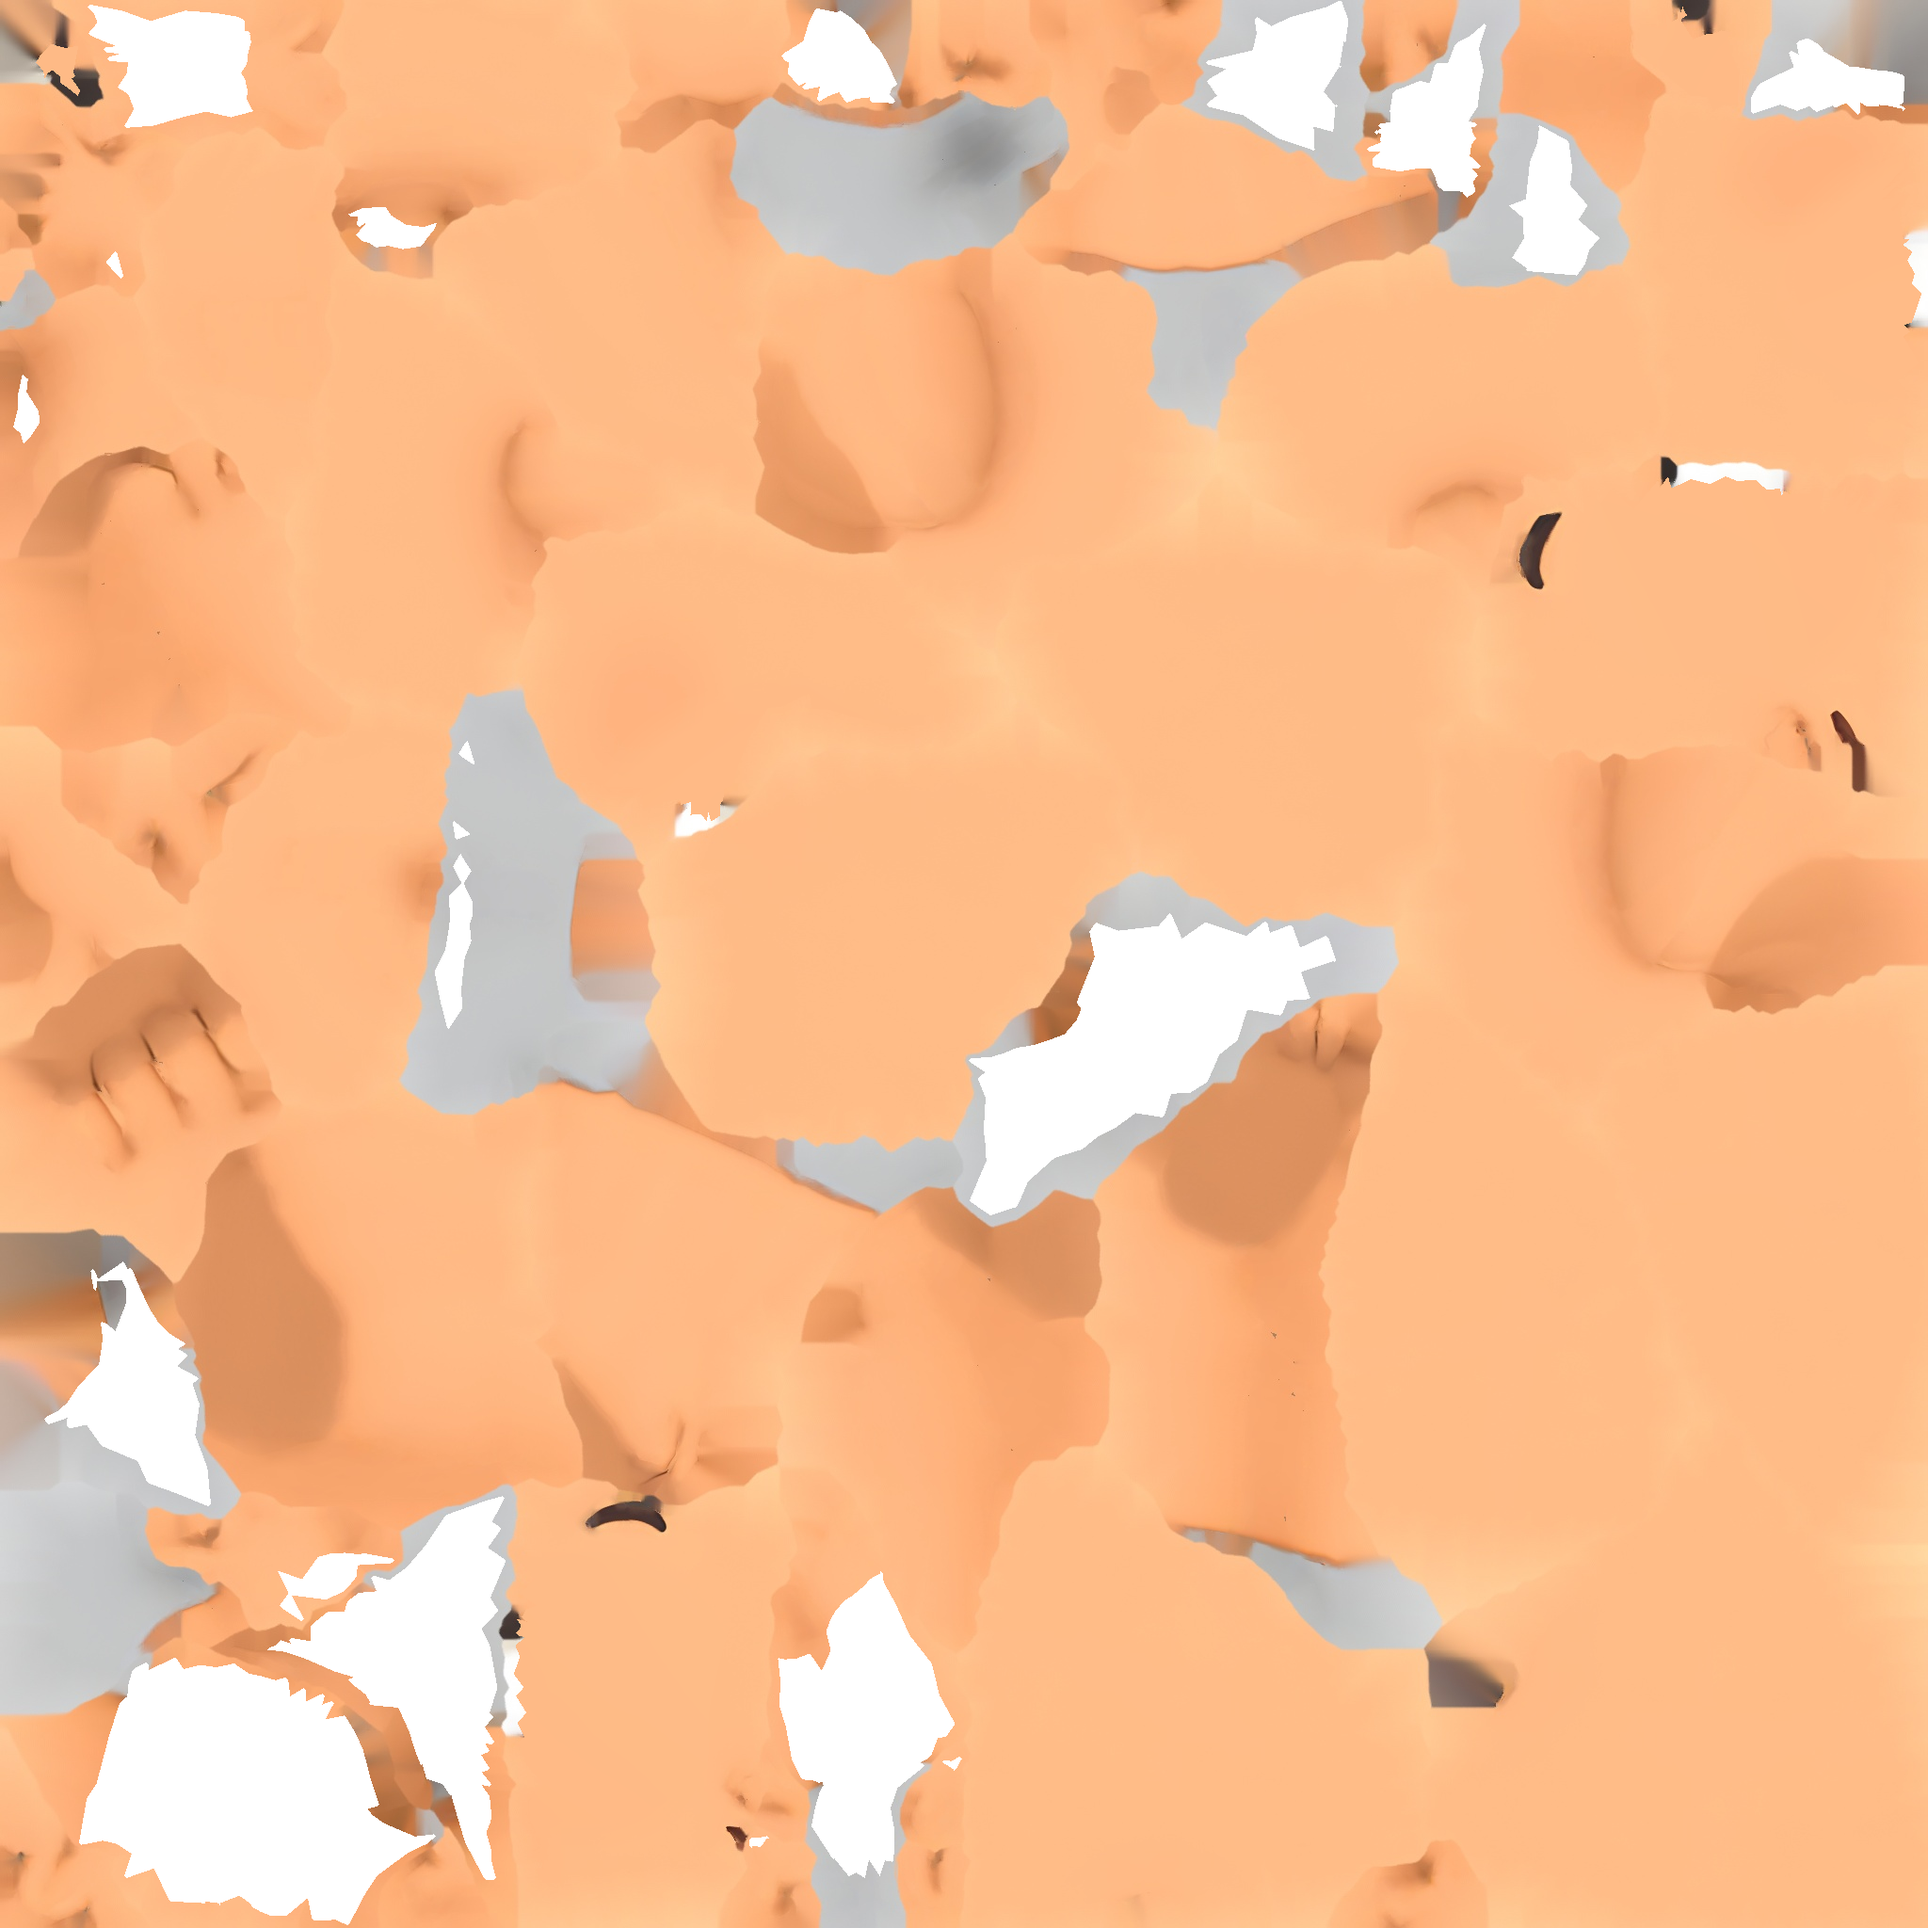
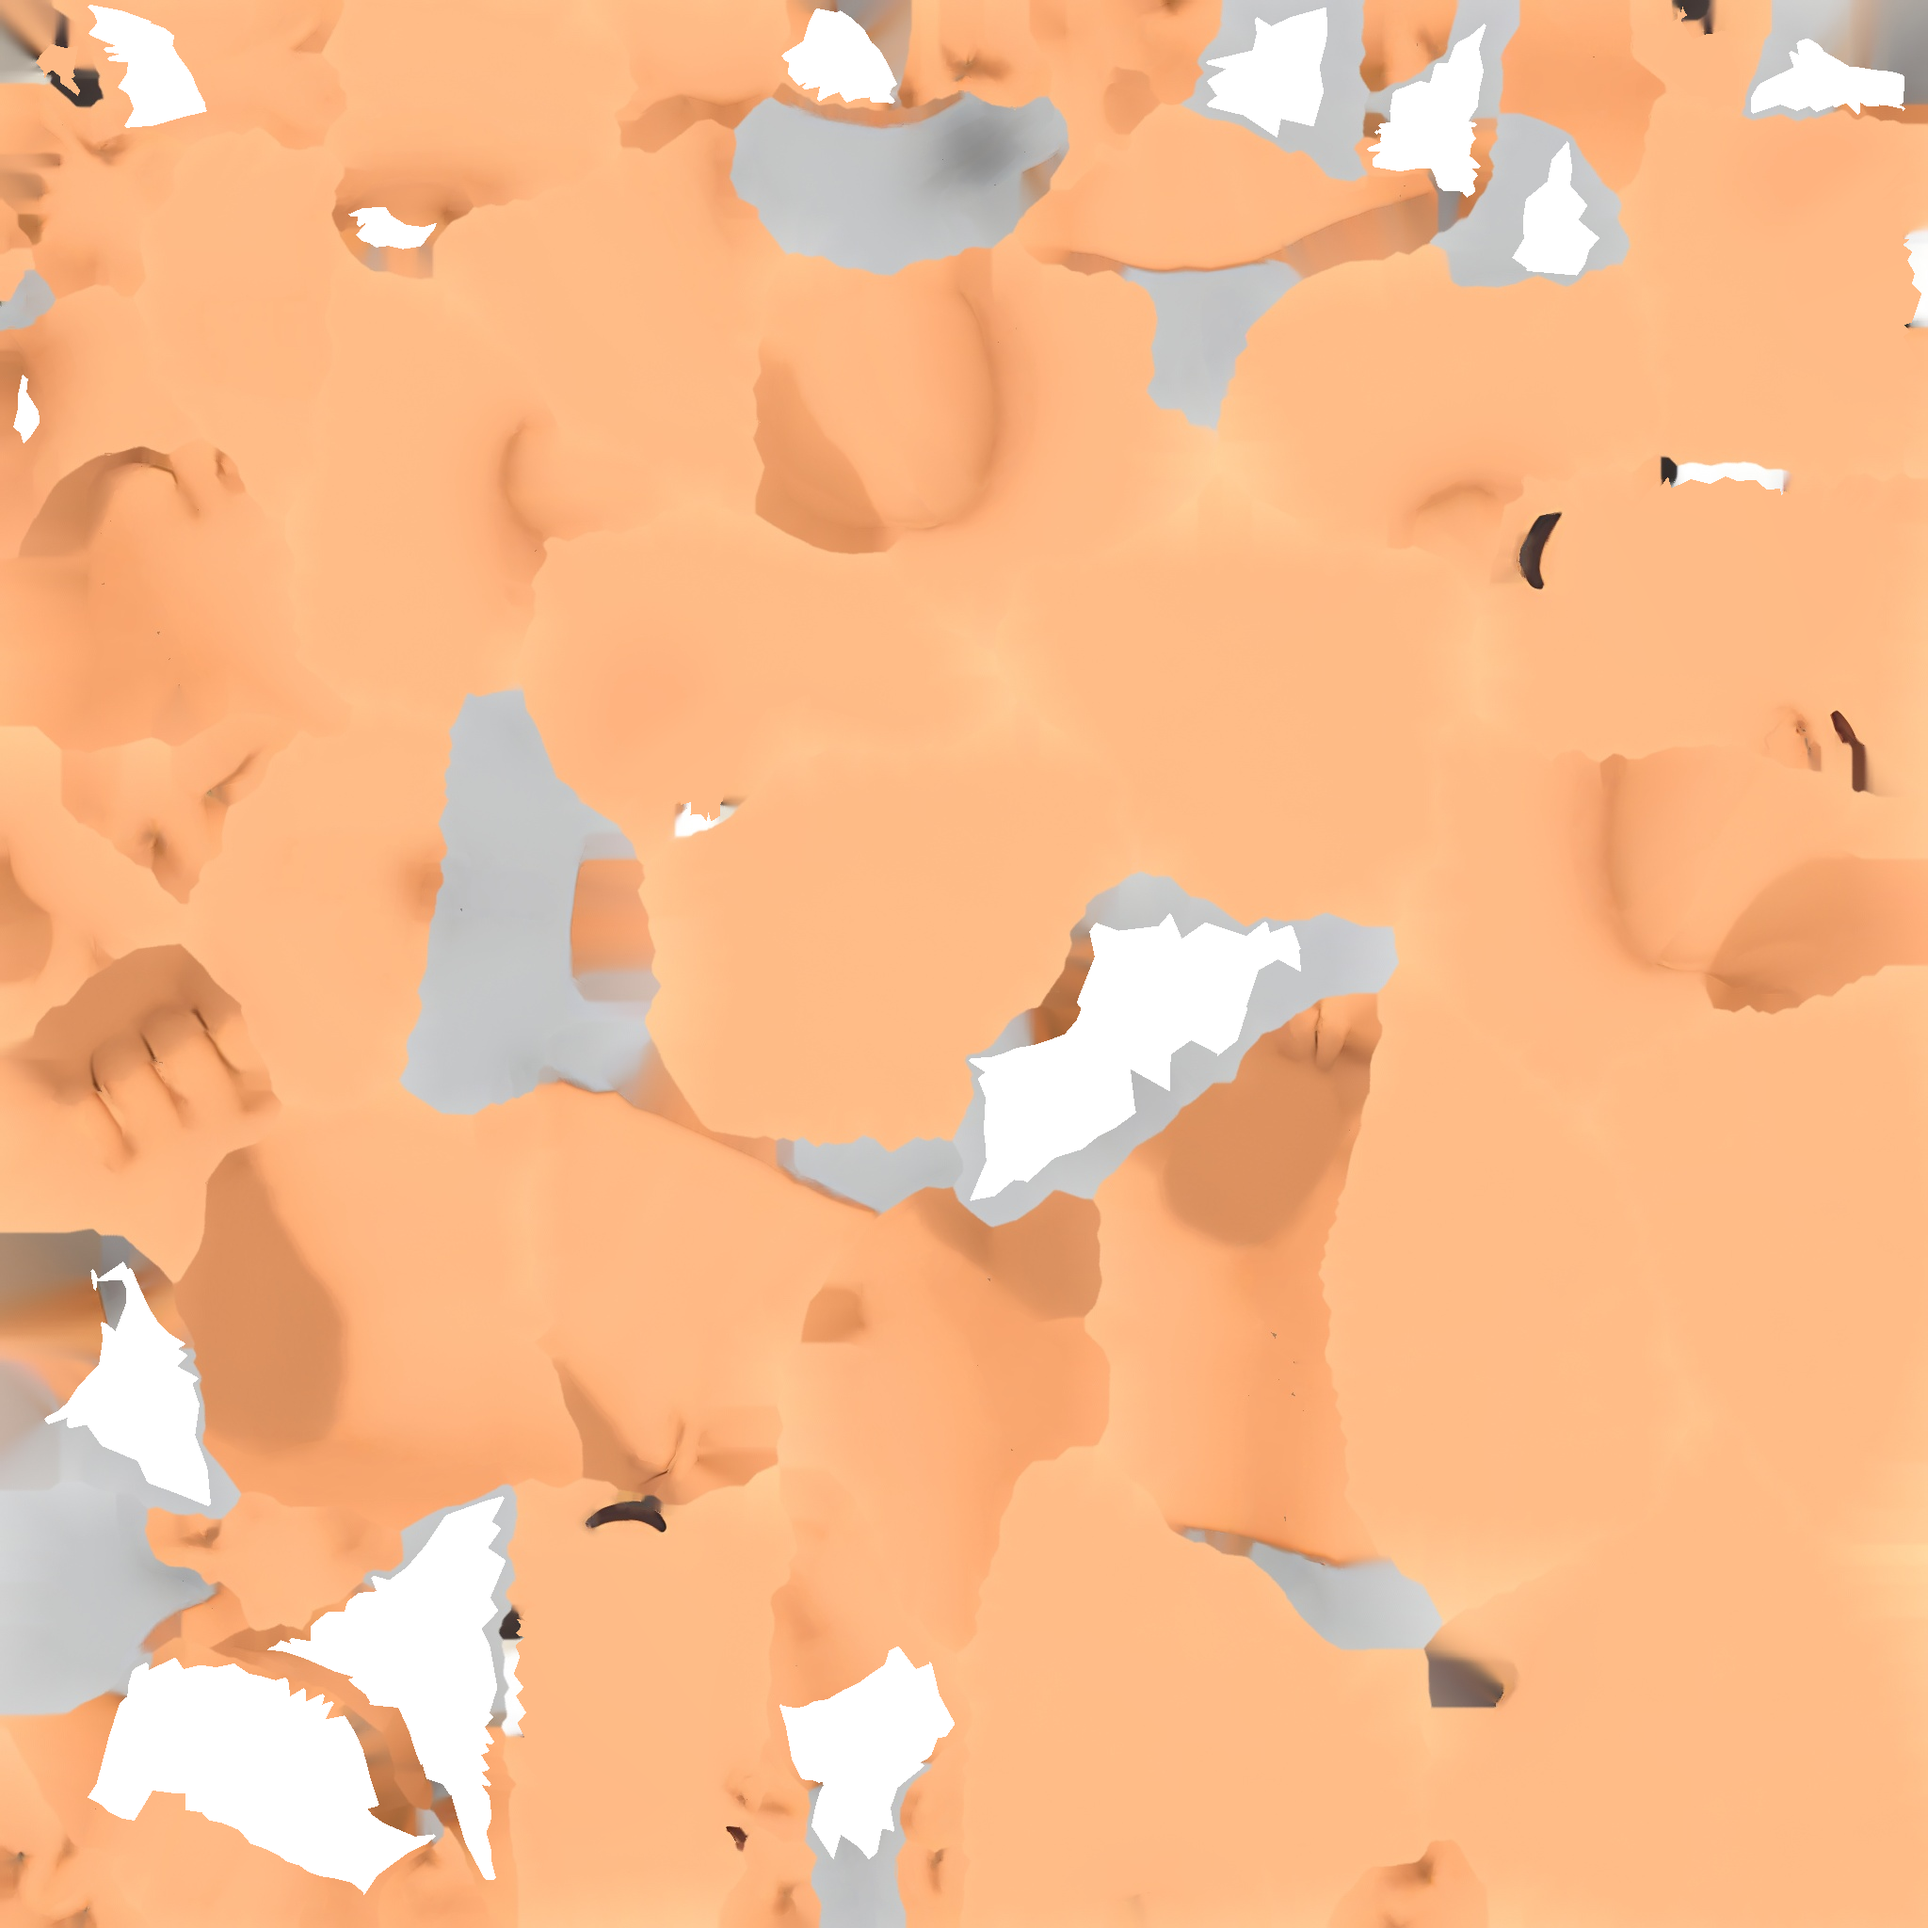
fix(frontend): 열린 소매의 손목 피부와 재킷 밑단 보존 [S15P31A305-217]

diff --git a/frontend/UnityClient/Assets/Tests/EditMode/Tripo/PasserbyOutfitTests.cs b/frontend/UnityClient/Assets/Tests/EditMode/Tripo/PasserbyOutfitTests.cs
@@ -100,6 +100,67 @@ namespace A305.Tripo.Tests
         }
 
         [Test]
+        public void CoveragePreservesSkinAtBothWristOpenings()
+        {
+            var instance = (GameObject)
+                PrefabUtility.InstantiatePrefab(
+                    AssetDatabase.LoadAssetAtPath<GameObject>(
+                        Folder + "LittleMung_Passerby_Male.prefab"
+                    )
+                );
+            var baked = new Mesh();
+            var texture = new Texture2D(2, 2);
+            try
+            {
+                var animator = instance.GetComponentInChildren<Animator>();
+                var body = instance
+                    .GetComponentsInChildren<SkinnedMeshRenderer>()
+                    .Single(s => s.sharedMesh.vertexCount == 8782);
+                body.BakeMesh(baked, true);
+                texture.LoadImage(
+                    System.IO.File.ReadAllBytes(
+                        AssetDatabase.GetAssetPath(body.sharedMaterial.GetTexture("_BaseMap"))
+                    )
+                );
+                var points = baked.vertices.Select(body.transform.TransformPoint).ToArray();
+                var uv = body.sharedMesh.uv;
+                foreach (var hand in new[] { HumanBodyBones.LeftHand, HumanBodyBones.RightHand })
+                {
+                    var wrist = animator.GetBoneTransform(hand).position;
+                    var indices = Enumerable
+                        .Range(0, points.Length)
+                        .Where(i => Vector3.Distance(points[i], wrist) < .065f)
+                        .ToArray();
+                    Assert.That(indices.Length, Is.GreaterThan(10), "Wrist sample is missing");
+                    foreach (int index in indices)
+                    {
+                        int x = Mathf.Clamp(
+                            (int)(uv[index].x * texture.width),
+                            0,
+                            texture.width - 1
+                        );
+                        int y = Mathf.Clamp(
+                            (int)(uv[index].y * texture.height),
+                            0,
+                            texture.height - 1
+                        );
+                        Assert.That(
+                            texture.GetPixel(x, y).a,
+                            Is.GreaterThan(.95f),
+                            hand + " skin is erased at the open cuff"
+                        );
+                    }
+                }
+            }
+            finally
+            {
+                Object.DestroyImmediate(texture);
+                Object.DestroyImmediate(baked);
+                Object.DestroyImmediate(instance);
+            }
+        }
+
+        [Test]
         public void PasserbyVariantRetainsBehaviorAndConnectsItsAnimator()
         {
             var prefab = AssetDatabase.LoadAssetAtPath<GameObject>(

diff --git a/frontend/UnityClient/Assets/Scripts/Editor/Characters/PasserbyOutfitBuilder.cs b/frontend/UnityClient/Assets/Scripts/Editor/Characters/PasserbyOutfitBuilder.cs
@@ -224,13 +224,25 @@ namespace A305.EditorTools.Characters
             var baked = new Mesh();
             body.BakeMesh(baked, true);
             var vertices = baked.vertices.Select(body.transform.TransformPoint).ToArray();
+            var animator = npc.GetComponentInChildren<Animator>();
+            var wrists = new[]
+            {
+                animator.GetBoneTransform(HumanBodyBones.LeftHand).position,
+                animator.GetBoneTransform(HumanBodyBones.RightHand).position,
+            };
+            // Keep skin visible inside open cuffs and below a moving jacket hem.
+            // Masking only by height used to erase the wrist along with the sleeve.
+            bool IsCovered(int index) =>
+                vertices[index].y > .46f
+                && vertices[index].y < .753f
+                && wrists.All(wrist => Vector3.Distance(vertices[index], wrist) > .085f);
             var mesh = body.sharedMesh;
             var triangles = mesh.triangles;
             var uv = mesh.uv;
             for (int i = 0; i < triangles.Length; i += 3)
             {
                 var ids = new[] { triangles[i], triangles[i + 1], triangles[i + 2] };
-                bool hide = ids.All(id => vertices[id].y > .435f && vertices[id].y < .753f);
+                bool hide = ids.All(IsCovered);
                 PaintTriangle(
                     hide ? covered : exposed,
                     width,

diff --git a/frontend/ArtSources/Characters/LittleMungPasserby/README.md b/frontend/ArtSources/Characters/LittleMungPasserby/README.md
@@ -16,7 +16,7 @@
 
 부모 Base 변경은 오버라이드하지 않은 몸·얼굴·표정·Animator 설정에 전파됩니다. 상의 메시와 가중치는 별도 에셋이므로 Base 체형 또는 본의 기준 자세를 바꾸면 착용 상태를 다시 검수해야 합니다. 모든 동작에서 옷 관통이 없다는 보장은 아닙니다.
 
-상의 착용 시 `BodyUnderSuit` 머티리얼은 옷으로 덮인 몸통·팔 부위만 알파 마스크로 가립니다. Base 메시·UV·블렌드셰이프는 그대로 공유하며, 얼굴·손 영역의 UV는 보호합니다. 머티리얼을 원래 `MannequinSkin`으로 되돌리면 몸 전체가 다시 보입니다. 옷을 교체할 때는 가리는 부위도 새 옷에 맞게 갱신해야 합니다. 머티리얼의 피부 틴트 기능은 유지합니다.
+상의 착용 시 `BodyUnderSuit` 머티리얼은 옷으로 덮인 몸통·팔 부위만 알파 마스크로 가립니다. 열린 소매 안쪽의 손목 피부와 재킷 아래 허리 경계는 보존합니다. Base 메시·UV·블렌드셰이프는 그대로 공유하며, 얼굴·손 영역의 UV는 보호합니다. 머티리얼을 원래 `MannequinSkin`으로 되돌리면 몸 전체가 다시 보입니다. 옷을 교체할 때는 가리는 부위도 새 옷에 맞게 갱신해야 합니다. 머티리얼의 피부 틴트 기능은 유지합니다.
 
 ## 현재 검수 범위
 
